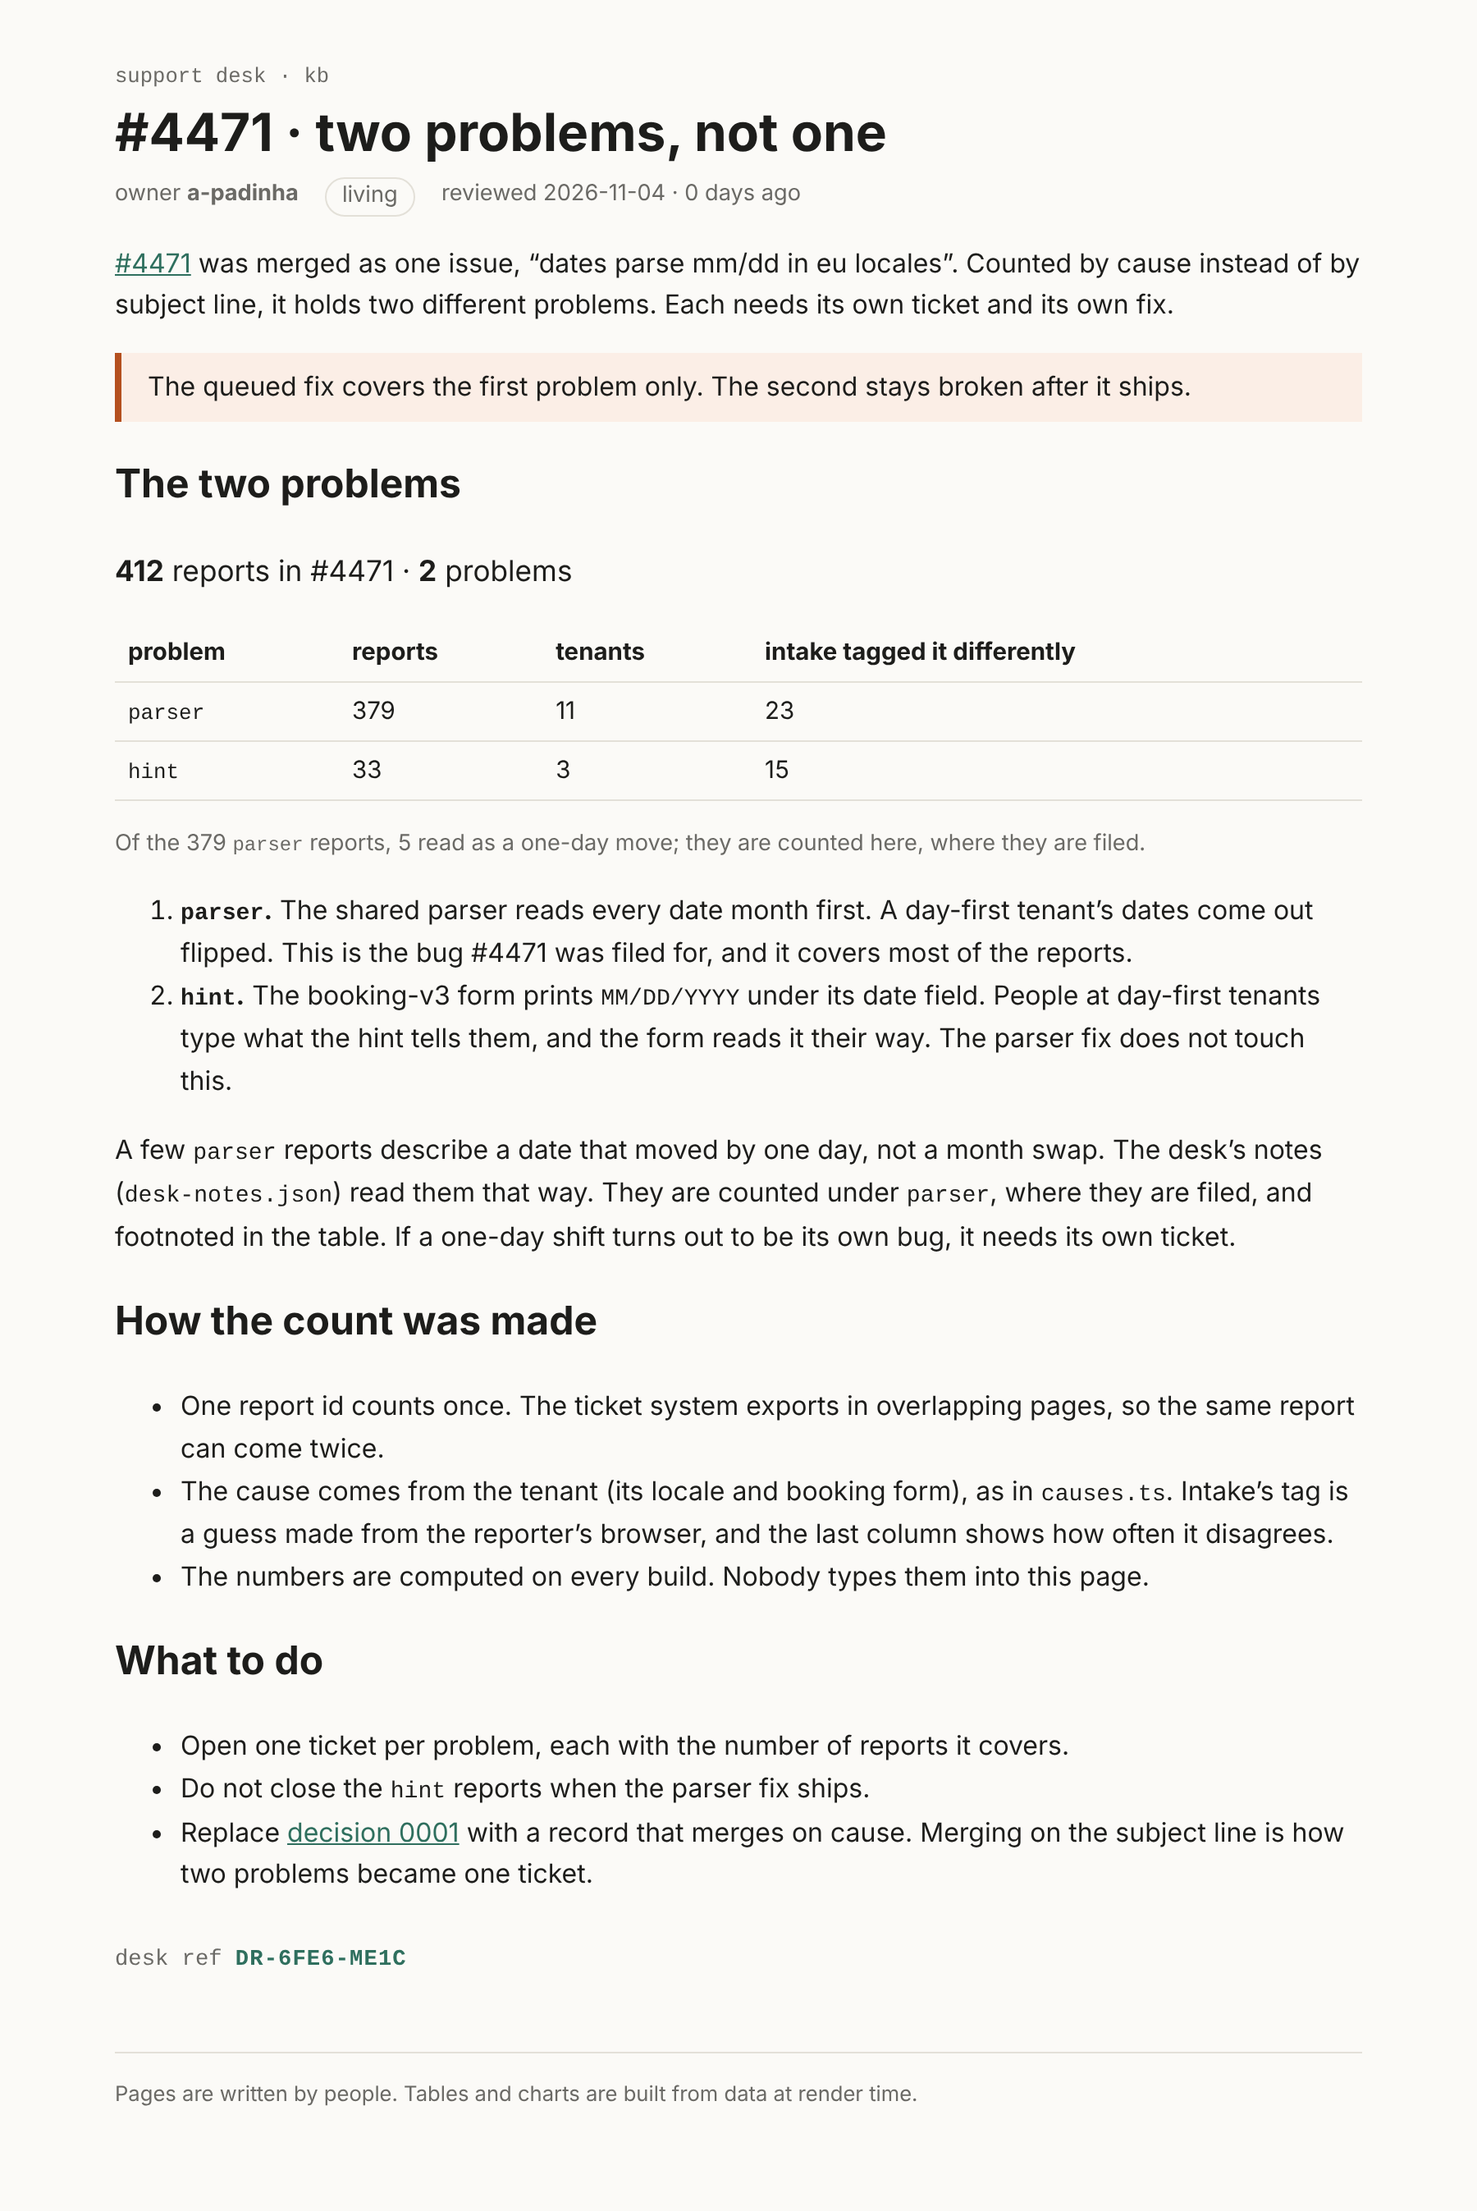
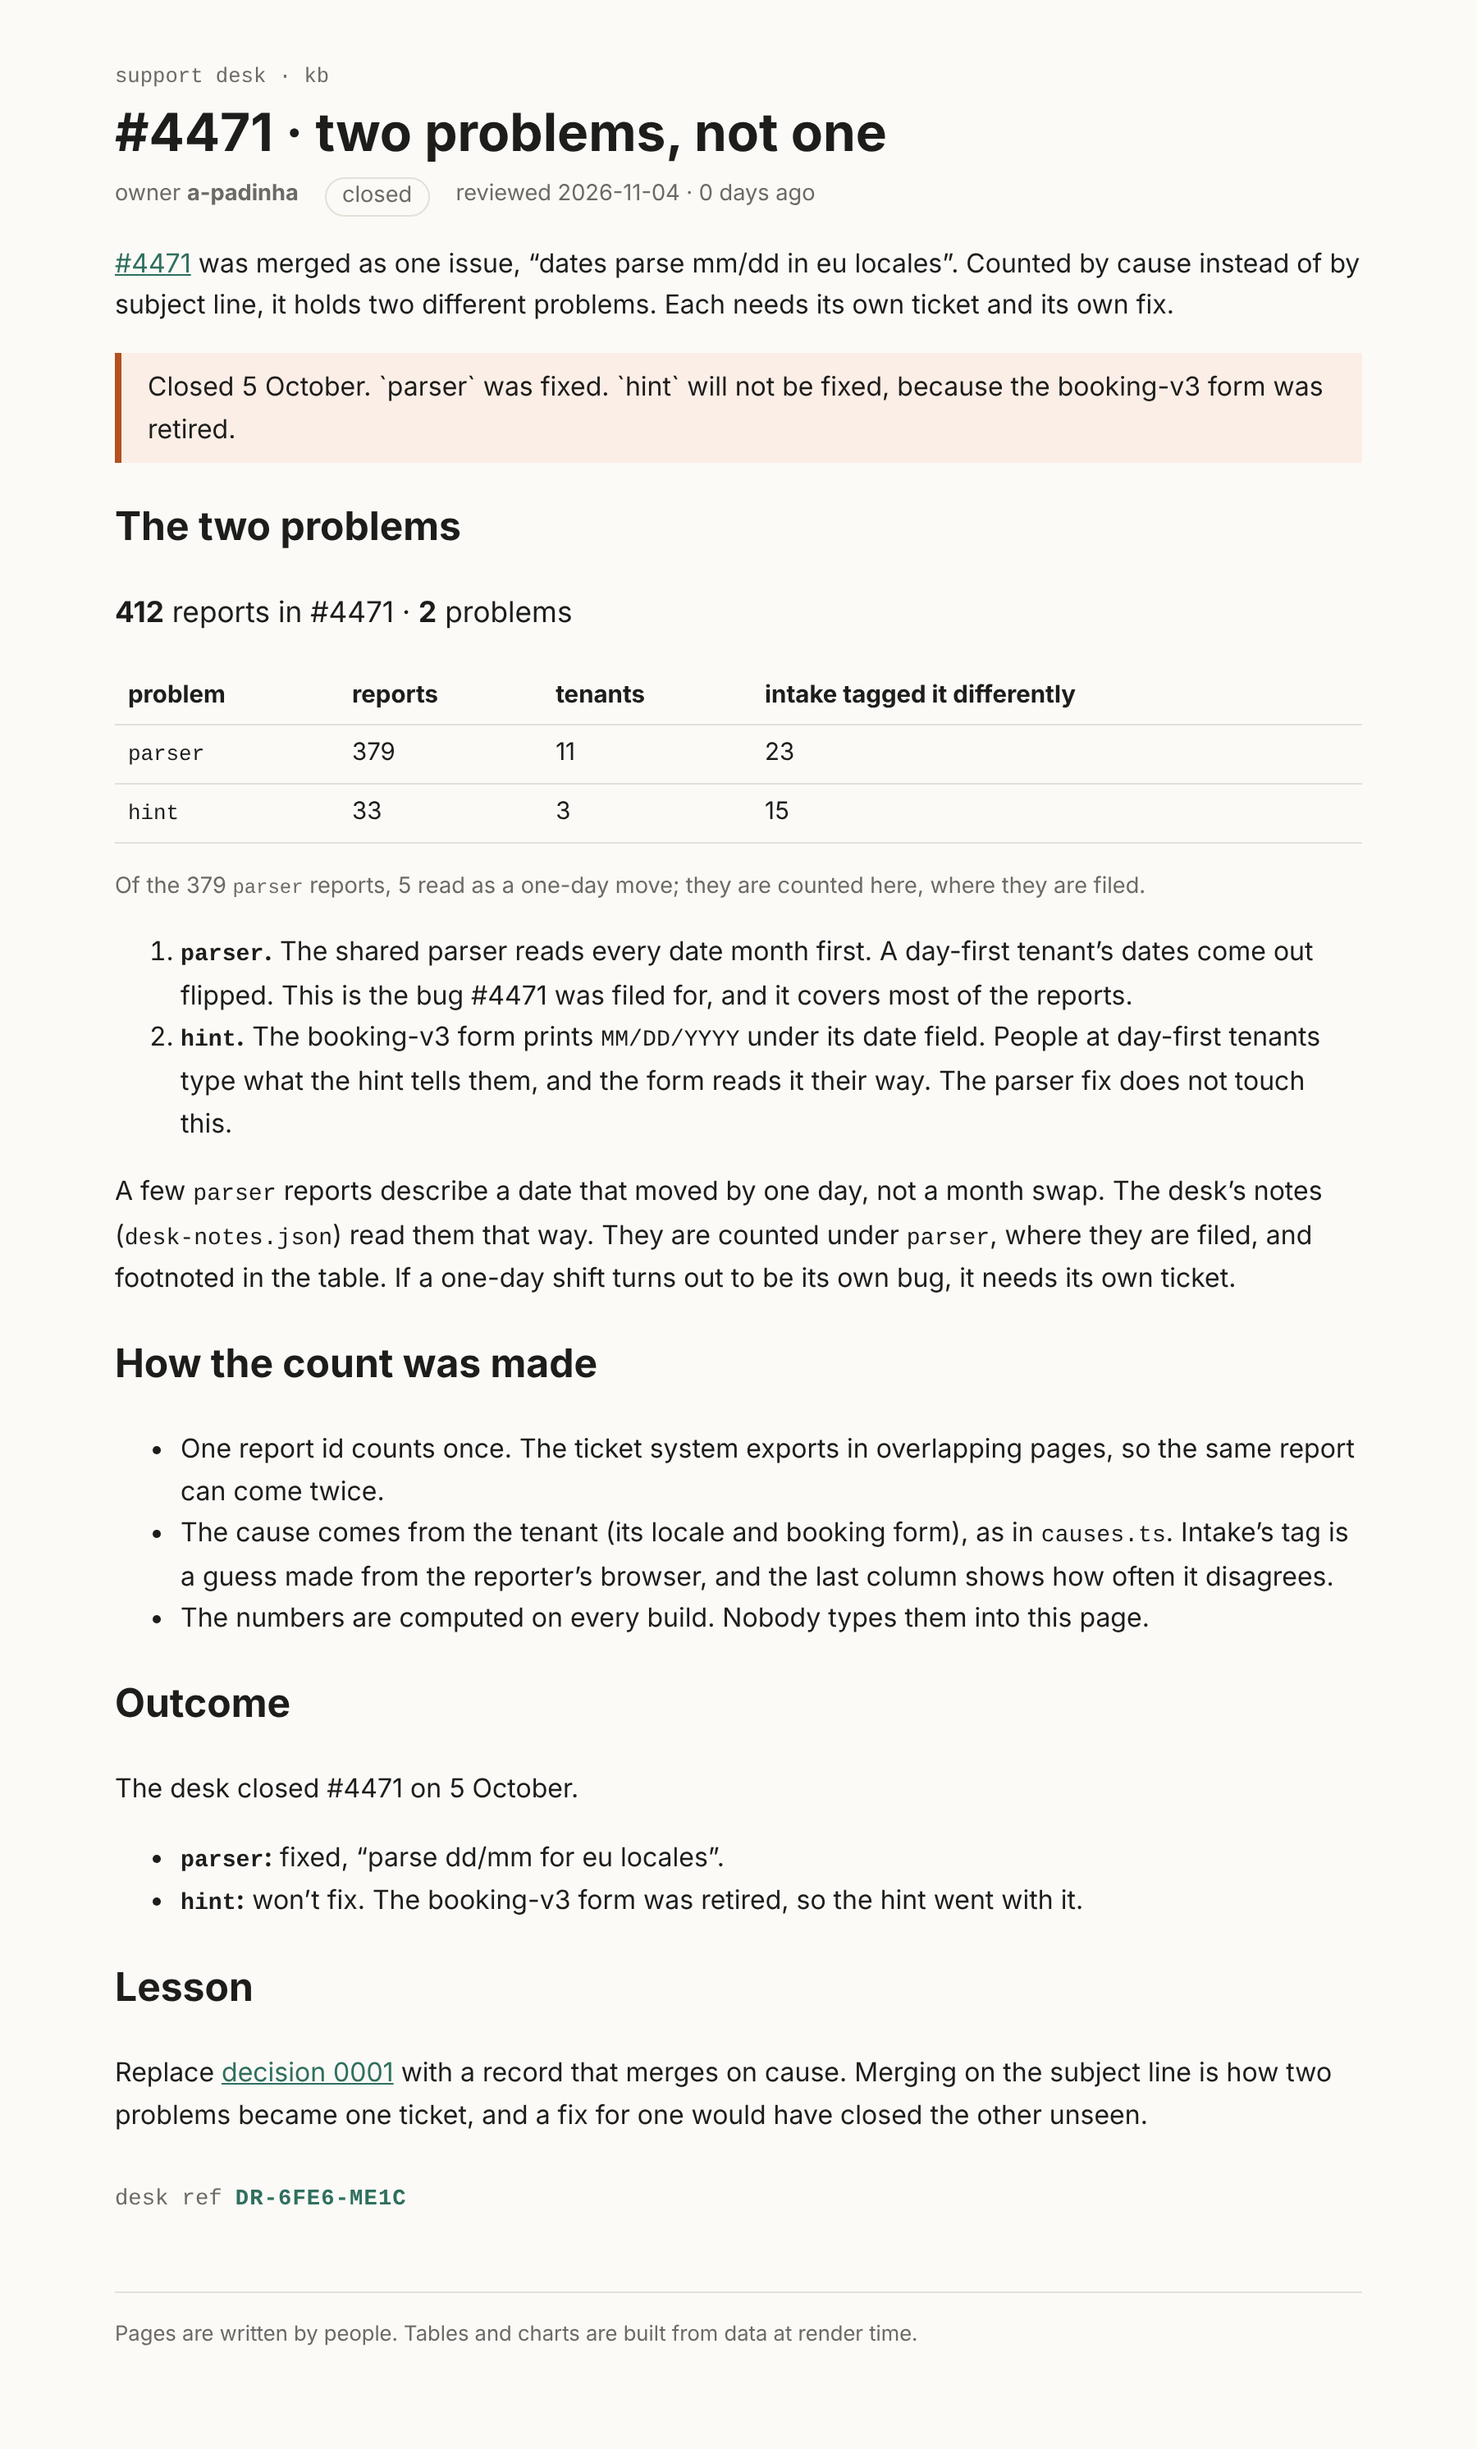
Record the desk outcome for #4471
Claude-Session: https://claude.ai/code/session_01EY4BiQs5nASbk82J5HN2VR

diff --git a/4471-two-problems.html b/4471-two-problems.html
@@ -27,16 +27,17 @@ aside.svelte-hdh0t2{border-left:4px solid var(--accent);padding:.5rem 1rem;margi
 .stale.svelte-9ec7d9{color:var(--warn);font-weight:600}
 .sum.svelte-m5iqvo{font-size:1.1rem}.note.svelte-m5iqvo{color:var(--muted);font-size:.85em}.stamp.svelte-5qojh0{margin:2rem 0 0;font:.85rem var(--mono);color:var(--muted)}.stamp.svelte-5qojh0 b:where(.svelte-5qojh0){color:var(--accent);letter-spacing:.04em}.missing.svelte-5qojh0{color:var(--warn)}
 .try.svelte-2hempu{display:grid;grid-template-columns:repeat(auto-fit,minmax(220px,1fr));gap:.75rem;margin:1rem 0}fieldset.svelte-2hempu{display:grid;gap:.4rem;border:1px solid var(--line);border-radius:6px}.verdict.svelte-2hempu{grid-column:1 / -1;margin:0;font-weight:600;color:var(--muted)}.dup.svelte-2hempu{color:var(--accent);font-weight:600}
-</style></head><body><!--[--><!--[--><!----><!----><div class="kb svelte-60g32v"><header><a class="crumb svelte-60g32v" href="/kb">support desk · kb</a> <h1 class="svelte-60g32v">#4471 · two problems, not one</h1> <p class="meta svelte-60g32v"><span>owner <b>a-padinha</b></span> <span class="status living svelte-60g32v">living</span> <span class="svelte-60g32v">reviewed 2026-11-04 · 0 days ago</span></p></header> <!--[!--><!--]--> <main><p><a href="/kb/incidents/4471">#4471</a> was merged as one issue, “dates parse mm/dd in eu locales”. Counted by
+</style></head><body><!--[--><!--[--><!----><!----><div class="kb svelte-60g32v"><header><a class="crumb svelte-60g32v" href="/kb">support desk · kb</a> <h1 class="svelte-60g32v">#4471 · two problems, not one</h1> <p class="meta svelte-60g32v"><span>owner <b>a-padinha</b></span> <span class="status closed svelte-60g32v">closed</span> <span class="svelte-60g32v">reviewed 2026-11-04 · 0 days ago</span></p></header> <!--[!--><!--]--> <main><p><a href="/kb/incidents/4471">#4471</a> was merged as one issue, “dates parse mm/dd in eu locales”. Counted by
 cause instead of by subject line, it holds two different problems. Each needs its own ticket and
-its own fix.</p> <aside class="warn svelte-hdh0t2"><!---->The queued fix covers the first problem only. The second stays broken after it ships.<!----></aside><!----> <h2>The two problems</h2> <p class="sum svelte-m5iqvo"><strong>412</strong> reports in #4471 · <strong>2</strong> problems</p> <table><thead><tr><th>problem</th><th>reports</th><th>tenants</th><th>intake tagged it differently</th></tr></thead><tbody><!--[--><tr><td><code>parser</code></td><td>379</td><td>11</td><td>23</td></tr><tr><td><code>hint</code></td><td>33</td><td>3</td><td>15</td></tr><!--]--></tbody></table> <!--[--><!--[--><p class="note svelte-m5iqvo">Of the 379 <code>parser</code> reports, 5 read as a one-day move; they are counted here, where they are filed.</p><!--]--><!--[!--><!--]--><!--]--><!----> <ol><li><strong><code>parser</code>.</strong> The shared parser reads every date month first. A day-first tenant’s dates come out
+its own fix.</p> <aside class="warn svelte-hdh0t2"><!---->Closed 5 October. `parser` was fixed. `hint` will not be fixed, because the booking-v3 form was retired.<!----></aside><!----> <h2>The two problems</h2> <p class="sum svelte-m5iqvo"><strong>412</strong> reports in #4471 · <strong>2</strong> problems</p> <table><thead><tr><th>problem</th><th>reports</th><th>tenants</th><th>intake tagged it differently</th></tr></thead><tbody><!--[--><tr><td><code>parser</code></td><td>379</td><td>11</td><td>23</td></tr><tr><td><code>hint</code></td><td>33</td><td>3</td><td>15</td></tr><!--]--></tbody></table> <!--[--><!--[--><p class="note svelte-m5iqvo">Of the 379 <code>parser</code> reports, 5 read as a one-day move; they are counted here, where they are filed.</p><!--]--><!--[!--><!--]--><!--]--><!----> <ol><li><strong><code>parser</code>.</strong> The shared parser reads every date month first. A day-first tenant’s dates come out
 flipped. This is the bug #4471 was filed for, and it covers most of the reports.</li> <li><strong><code>hint</code>.</strong> The booking-v3 form prints <code>MM/DD/YYYY</code> under its date field. People at day-first tenants
 type what the hint tells them, and the form reads it their way. The parser fix does not touch this.</li></ol> <p>A few <code>parser</code> reports describe a date that moved by one day, not a month swap. The desk’s notes
 (<code>desk-notes.json</code>) read them that way. They are counted under <code>parser</code>, where they are filed, and
 footnoted in the table. If a one-day shift turns out to be its own bug, it needs its own ticket.</p> <h2>How the count was made</h2> <ul><li>One report id counts once. The ticket system exports in overlapping pages, so the same report can
 come twice.</li> <li>The cause comes from the tenant (its locale and booking form), as in <code>causes.ts</code>. Intake’s tag is a
-guess made from the reporter’s browser, and the last column shows how often it disagrees.</li> <li>The numbers are computed on every build. Nobody types them into this page.</li></ul> <h2>What to do</h2> <ul><li>Open one ticket per problem, each with the number of reports it covers.</li> <li>Do not close the <code>hint</code> reports when the parser fix ships.</li> <li>Replace <a href="/kb/decisions/0001-dedupe-by-subject">decision 0001</a> with a record that merges on cause.
-Merging on the subject line is how two problems became one ticket.</li></ul> <!--[--><p class="stamp svelte-5qojh0">desk ref <b class="svelte-5qojh0">DR-6FE6-ME1C</b></p><!--]--><!----><!----></main> <footer class="svelte-60g32v">Pages are written by people. Tables and charts are built from data at render time.</footer></div><!----><!----><!----><!--]--> <!--[!--><!--]--><!--]-->
+guess made from the reporter’s browser, and the last column shows how often it disagrees.</li> <li>The numbers are computed on every build. Nobody types them into this page.</li></ul> <h2>Outcome</h2> <p>The desk closed #4471 on 5 October.</p> <ul><li><strong><code>parser</code>:</strong> fixed, “parse dd/mm for eu locales”.</li> <li><strong><code>hint</code>:</strong> won’t fix. The booking-v3 form was retired, so the hint went with it.</li></ul> <h2>Lesson</h2> <p>Replace <a href="/kb/decisions/0001-dedupe-by-subject">decision 0001</a> with a record that merges on cause.
+Merging on the subject line is how two problems became one ticket, and a fix for one would have
+closed the other unseen.</p> <!--[--><p class="stamp svelte-5qojh0">desk ref <b class="svelte-5qojh0">DR-6FE6-ME1C</b></p><!--]--><!----><!----></main> <footer class="svelte-60g32v">Pages are written by people. Tables and charts are built from data at render time.</footer></div><!----><!----><!----><!--]--> <!--[!--><!--]--><!--]-->
 			
 			
 		</body></html>
